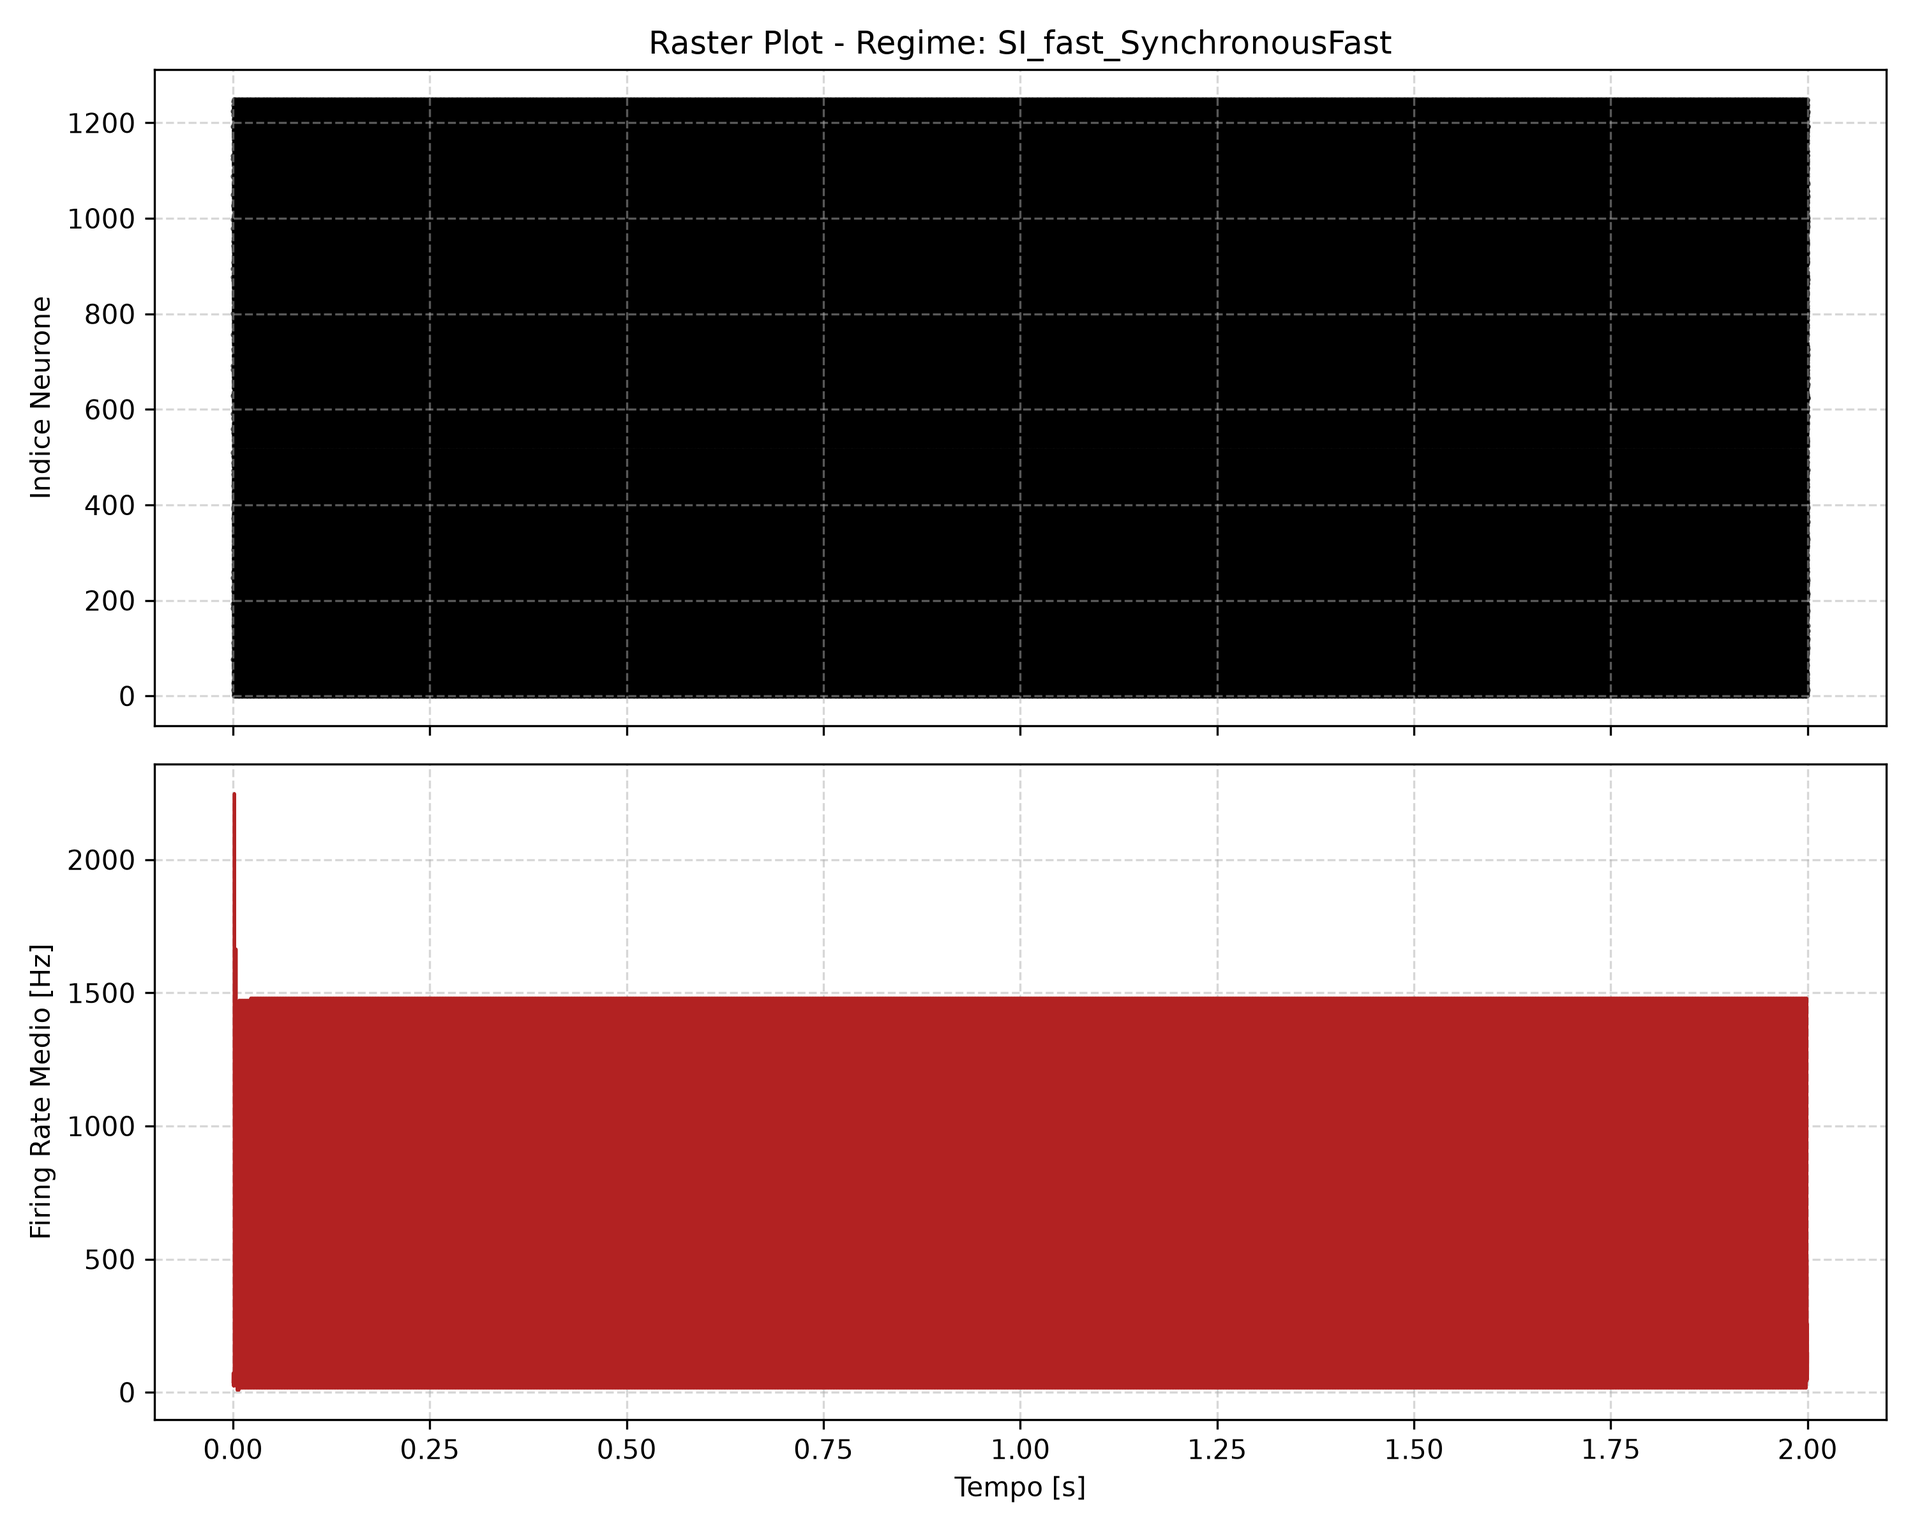
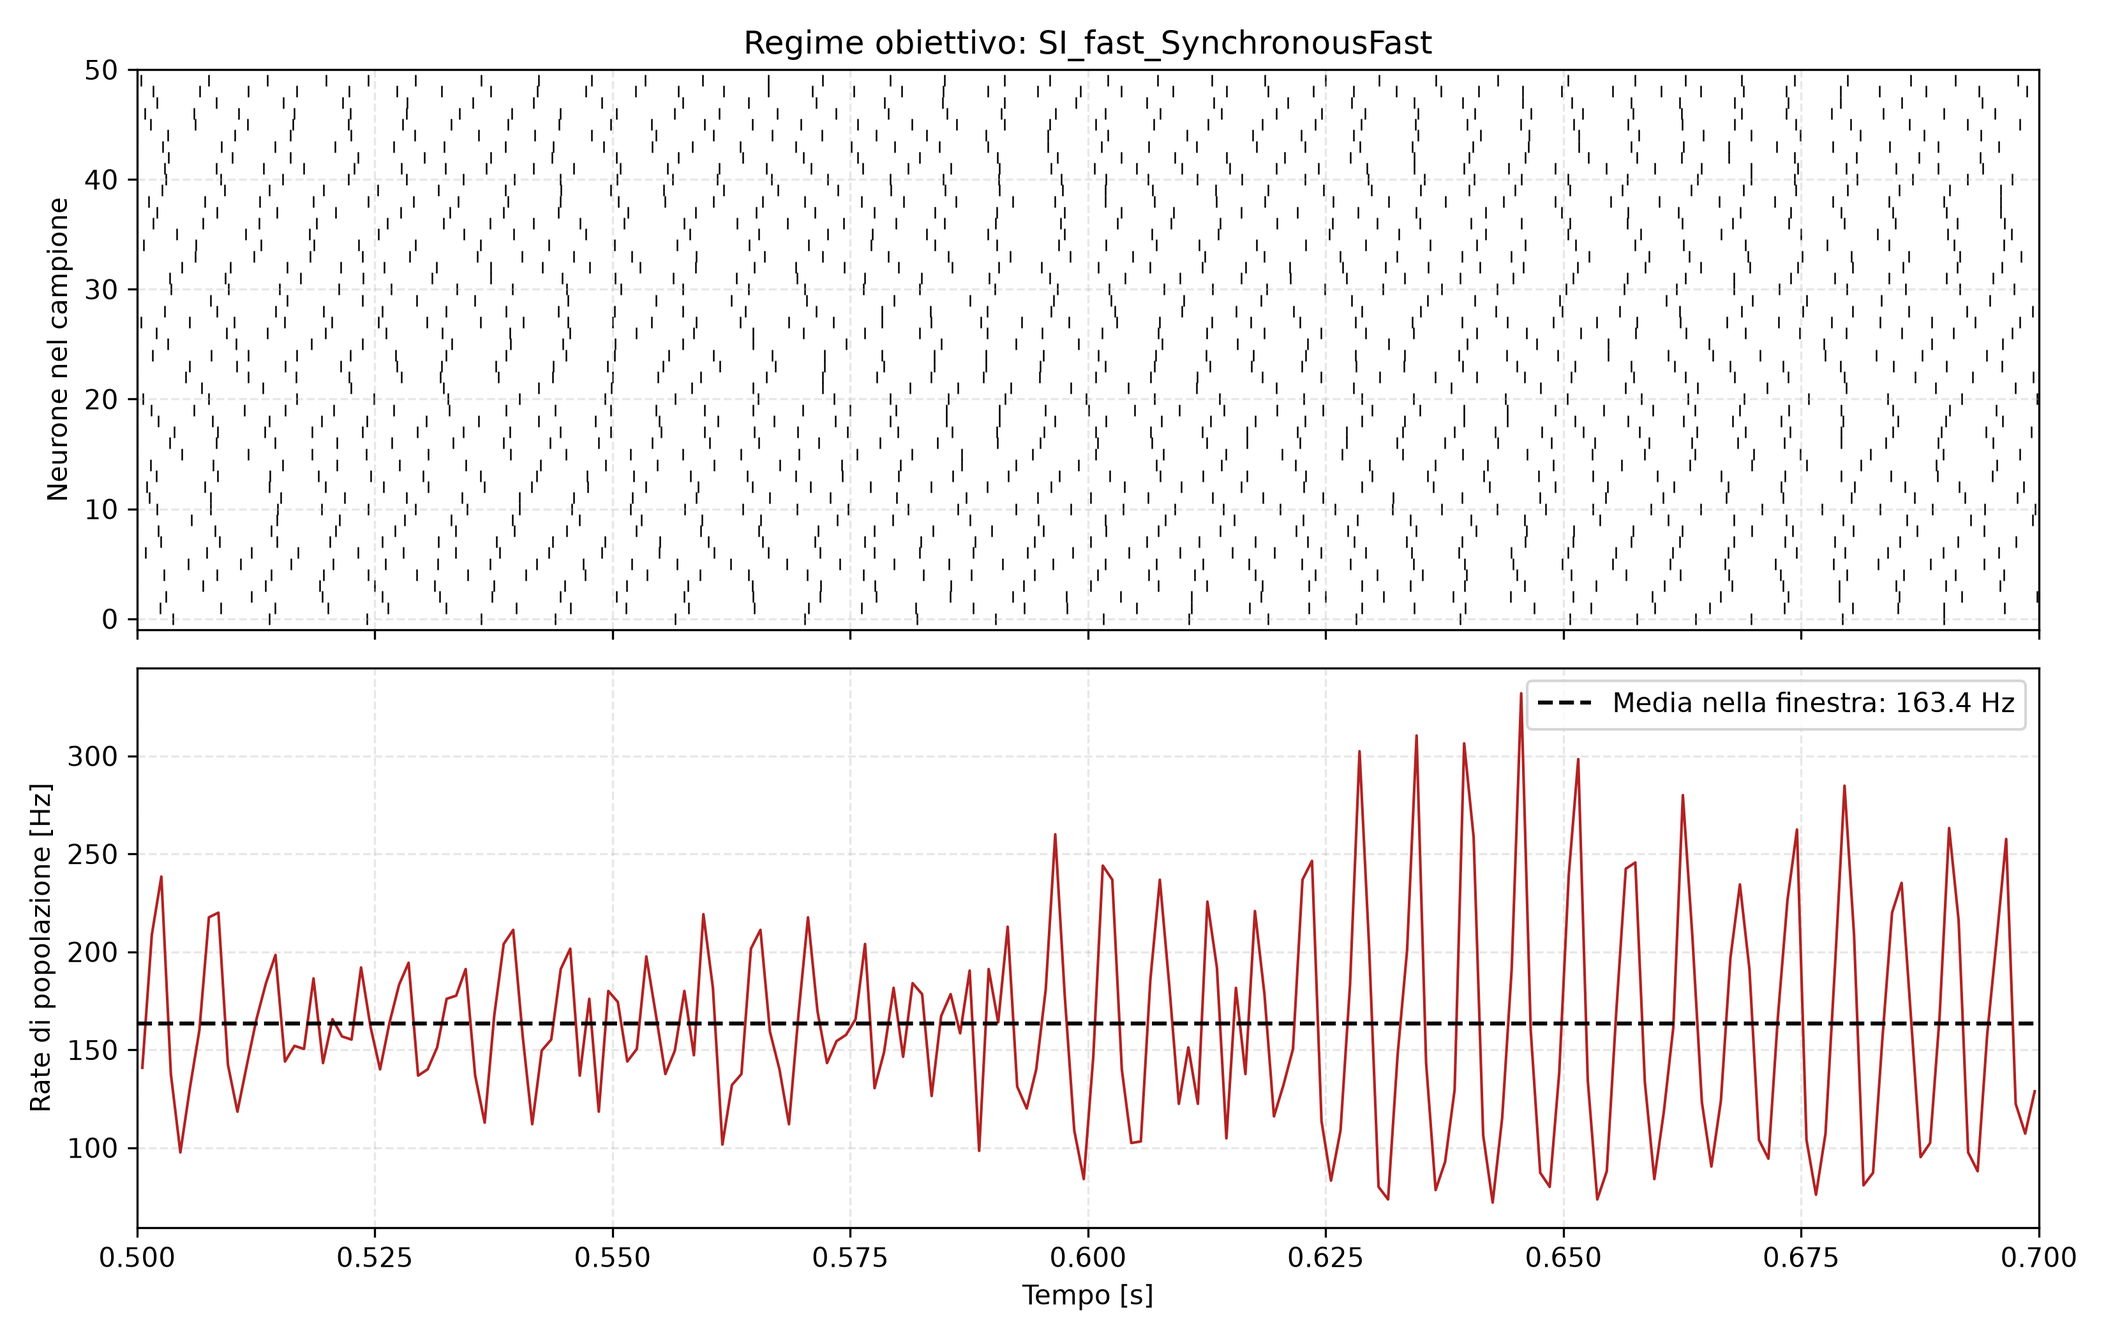
testBrunellSR

diff --git a/src/main.cpp b/src/main.cpp
@@ -986,99 +986,126 @@ void provaStimoloPoissoniano() {
 }
 
 // Funzione di supporto per lanciare una simulazione per un regime specifico di Brunel
-void eseguiSimulazioneBrunel(const std::string& nomeRegime, double g, double nu_ext_su_nu_thr, size_t numE,
-                             size_t numI) {
-    std::cout << "\n==================================================\n";
-    std::cout << " Avvio Simulazione Regime: " << nomeRegime << "\n";
-    std::cout << " Parametri: g = " << g << ", nu_ext/nu_thr = " << nu_ext_su_nu_thr << "\n";
-    std::cout << "==================================================\n";
+// Incollare queste funzioni nel main.cpp, sostituendo la vecchia funzione Brunel.
+// Dal proprio main chiamare eseguiQuattroRegimiBrunel(1000, 250).
+// Per la dimensione della figura 8: eseguiQuattroRegimiBrunel(10000, 2500).
+// I nomi identificano i regimi obiettivo, non una classificazione dell'output.
+#include "Rete.hpp"
+#include "Simulazione.hpp"
+#include "Stimoli.hpp"
+#include "UnitaSI.hpp"
+#include <cmath>
+#include <cstddef>
+#include <exception>
+#include <filesystem>
+#include <iostream>
+#include <random>
+#include <stdexcept>
+#include <string>
 
-    // 1. Parametri fisici fissi del modello di Brunel (2000)
-    double dt = 0.1 * ms;     // Passo temporale
-    double T = 2 * s;         // Durata della simulazione (2 secondi)
-    double J = 0.1 * mV;      // Ampiezza del salto sinaptico eccitatorio
-    double delayD = 1.5 * ms; // Ritardo fisso sinaptico
-    double p_conn = 0.1;      // Probabilità di connessione sparsa (10%)
-    double nu_thr = 10.0;     // Frequenza soglia di riferimento [Hz] (calcolata per C_ext=1000, J=0.1mV, tau=20ms)
-    double nu_ext = nu_ext_su_nu_thr * nu_thr; // Frequenza del treno di Poisson esterno
+void eseguiSimulazioneBrunel(const std::string& nomeRegime, double g, double eta, std::size_t numE, std::size_t numI) {
+    if (numE == 0 || numI == 0 || !(g > 0.0) || !(eta > 0.0))
+        throw std::invalid_argument("Popolazioni, g ed eta devono essere positivi");
+    const double dt = 0.1 * ms;
+    const double durata = 2.0 * s; // Analizzare dopo almeno 0.2 s di transitorio.
+    const double J = 0.1 * mV;
+    const double delay = 1.5 * ms;
+    const double probabilita = 0.1;
+    const double R = 1.0 * Mohm;
+    const double C = 20000.0 * p * F;
+    const double tauM = R * C; // 20 ms.
+    const double riposo = 0.0 * mV;
+    const double soglia = 20.0 * mV;
+    const double reset = 10.0 * mV;
 
-    // 2. Creazione della Rete e blocco seed
+    // Scelta per la rete ridotta: Cext = numero MEDIO di afferenze E.
+    // Con 1250 neuroni la connettivita' ricorrente NON equivale al caso originale.
+    const double Cext = probabilita * static_cast<double>(numE);
+    const double nuThr = (soglia - riposo) / (J * Cext * tauM);
+    const double nuExt = eta * nuThr; // Frequenza per afferenza.
+    const double frequenzaAggregata = Cext * nuExt;
+
+    // Corrente costante per uno step: contributo al potenziale pari a J
+    // con l'integrazione analitica LIF. Non assegnare J direttamente a Ipeak!
+    const double correnteEvento = J / (R * (-std::expm1(-dt / tauM)));
+
+    std::cout << "\n=== Obiettivo: " << nomeRegime << " ===\n"
+              << "N = " << numE + numI << ", g = " << g << ", eta = " << eta << '\n'
+              << "tau_m [ms] = " << tauM / ms << ", corrente/evento [nA] = " << correnteEvento / (n * A) << '\n'
+              << "Cext = " << Cext << ", nu_thr [Hz] = " << nuThr << ", nu_ext aggregata [Hz] = " << frequenzaAggregata
+              << '\n';
+
     Rete rete;
-    // rete.setSeed(42);
+    const auto popE = rete.addPopulation(numE, NeuronModel::LIF, 'A');
+    const auto popI = rete.addPopulation(numI, NeuronModel::LIF, 'A');
 
-    // 3. Creazione Popolazioni (80% Eccitatori, 20% Inibitori)
-    // Usiamo neuroni LIF con integratore analitico ('A')
-    size_t popE = rete.addPopulation(numE, NeuronModel::LIF, 'A');
-    size_t popI = rete.addPopulation(numI, NeuronModel::LIF, 'A');
+    patchLIF parametri;
+    parametri.V = reset;
+    parametri.Vrest = riposo;
+    parametri.Vreset = reset;
+    parametri.Vth = soglia;
+    parametri.VthMin = soglia;
+    parametri.VthMax = soglia; // Soglia fissa: niente adattamento.
+    parametri.R = R;
+    parametri.C = C;
+    parametri.timeAbsolute = 2.0 * ms;
+    parametri.timeRelative = 20.0 * ms; // Finito; irrilevante con soglia fissa.
+    rete.modificaParametriPopolazione(popE, parametri);
+    rete.modificaParametriPopolazione(popI, parametri);
 
-    // Impostiamo esplicitamente i parametri standard di Brunel sui neuroni creati
-    // (Vrest = 0mV, Vth = 20mV, Vreset = 10mV, tau = 20ms)
-    patchLIF patchBrunel;
-    patchBrunel.Vrest = 0.0 * mV;
-    patchBrunel.Vth = 20.0 * mV;
-    patchBrunel.Vreset = 10.0 * mV;
-    patchBrunel.timeAbsolute = 2.0 * ms; // Refrattarietà tau_rp = 2ms
-
-    // Assegnamo tau = 20ms tramite R * C (es. R=1Mohm, C=2000pF -> tau=20ms)
-    patchBrunel.R = 1.0 * Mohm;
-    patchBrunel.C = 20000.0 * p * F; // 20ms / 1Mohm = 20000pF
-
-    rete.modificaParametriPopolazione(popE, patchBrunel);
-    rete.modificaParametriPopolazione(popI, patchBrunel);
-
-    // 4. Connessioni interne (E->E, E->I, I->E, I->I) con sinapsi Current impulsive (isImpulsive_ = true)
-    patchCurrent patchSynE = {};
-    patchSynE.peso = -1.0;
-    patchSynE.Ipeak = J;
-    patchSynE.delay = delayD;
-    patchSynE.isDelta = true;
-
-    patchCurrent patchSynI = {};
-    patchSynI.peso = 1.0;
-    patchSynI.Ipeak = g * J; // Inibizione scalata per il fattore g
-    patchSynI.delay = delayD;
-    patchSynI.isDelta = true;
-
-    // Creiamo le 4 matrici di connessione sparsa
-    auto sinE_E = rete.connettiPopolazioni(popE, popE, p_conn, SynapseModel::Current, patchSynE);
-    auto sinE_I = rete.connettiPopolazioni(popE, popI, p_conn, SynapseModel::Current, patchSynE);
-    auto sinI_E = rete.connettiPopolazioni(popI, popE, p_conn, SynapseModel::Current, patchSynI);
-    auto sinI_I = rete.connettiPopolazioni(popI, popI, p_conn, SynapseModel::Current, patchSynI);
-
-    // Attiviamo il flag impulsivo su tutte le sinapsi create
-    // (Supponendo di avere il metodo per impostare l'integratore/flag impulsivo sulle sinapsi)
-    // Nota: nel codice puoi iterare e impostare syn.isImpulsive_ = true;
-
-    // 5. Iniezione dell'input esterno di Poisson su TUTTI i neuroni della rete
-
-    rete.bloccaRete();
-
-    Simulazione sim(rete, dt, T);
-    // sim.setSeed(1337);
-
-    for (size_t i = 0; i < (numE + numI); ++i) {
-        configPoissonStimulus pois;
-        pois.timeStart = 0.0;
-        pois.timeEnd = T;
-        pois.frequenza = nu_ext;
-        pois.ampiezza = J;
-
-        sim.iniettaStimoli({{i, pois}});
+    // Solo condizioni iniziali eterogenee; parametri fisici identici.
+    std::mt19937 rngIniziale(42);
+    std::uniform_real_distribution<double> iniziale(reset, soglia);
+    for (std::size_t id = 0; id < numE + numI; ++id) {
+        patchLIF condizione;
+        condizione.V = iniziale(rngIniziale);
+        rete.modificaParametriNeurone(id, condizione);
     }
 
-    // 6. Blocco della rete (Attivazione pre-calcolo analitico) e avvio simulazione
-    std::string fileV = "V_" + nomeRegime + ".bin";
-    std::string fileF = "F_" + nomeRegime + ".bin";
-    std::string fileS = "S_" + nomeRegime + ".bin";
+    patchCurrent eccitatoria;
+    eccitatoria.Isyn = 0.0;
+    eccitatoria.peso = -1.0; // Engine sottrae getCurrent().
+    eccitatoria.Ipeak = correnteEvento;
+    eccitatoria.delay = delay;
+    eccitatoria.tau = 5.0 * ms; // Ignorato per le delta.
+    eccitatoria.isDelta = true;
 
-    std::cout << "[Main] Preparazione e blocco della rete in corso...\n";
-    // (La simulazione o la rete chiamano il prepare/blocco)
+    patchCurrent inibitoria = eccitatoria;
+    inibitoria.peso = 1.0;
+    inibitoria.Ipeak = g * correnteEvento;
 
-    std::cout << "[Main] Avvio simulazione per " << T << " secondi...\n";
-    sim.avviaSimulazione(fileV, fileF, fileS);
-    std::cout << "[Main] Simulazione completata! File salvati nella cartella output/.\n";
+    rete.connettiPopolazioni(popE, popE, probabilita, SynapseModel::Current, 'A', eccitatoria);
+    rete.connettiPopolazioni(popE, popI, probabilita, SynapseModel::Current, 'A', eccitatoria);
+    rete.connettiPopolazioni(popI, popE, probabilita, SynapseModel::Current, 'A', inibitoria);
+    rete.connettiPopolazioni(popI, popI, probabilita, SynapseModel::Current, 'A', inibitoria);
+    rete.bloccaRete();
+
+    Simulazione sim(rete, dt, durata);
+    for (std::size_t id = 0; id < numE + numI; ++id) {
+        configPoissonStimulus pois;
+        pois.timeStart = 0.0;
+        pois.timeEnd = durata;
+        pois.frequenza = frequenzaAggregata;
+        pois.ampiezza = correnteEvento;
+        stimolo esterno;
+        esterno.indexNeurone = id;
+        esterno.parametri = pois;
+        sim.iniettaStimoli(esterno);
+    }
+
+    std::filesystem::create_directories("output");
+    const std::string nome = nomeRegime;
+    sim.avviaSimulazione("V_" + nome + ".bin", "F_" + nome + ".bin", "S_" + nome + ".bin");
 }
 
+// Le etichette identificano i regimi obiettivo. La rete ridotta non e'
+// dinamicamente equivalente alla rete originale: controllare raster, CV e rate.
+void eseguiQuattroRegimiBrunel(std::size_t numE = 1000, std::size_t numI = 250) {
+    eseguiSimulazioneBrunel("SR_SynchronousRegular", 3.0, 2.0, numE, numI);
+    // eseguiSimulazioneBrunel("AI_AsynchronousIrregular", 5.0, 2.0, numE, numI);
+    // eseguiSimulazioneBrunel("SI_fast_SynchronousFast", 6.0, 4.0, numE, numI);
+    // eseguiSimulazioneBrunel("SI_slow_SynchronousSlow", 4.5, 0.9, numE, numI);
+}
 // ---------------------------------------------------------------------------------------
 // MAIN: Esecuzione di tutti gli esempi didattici e benchmark
 // ---------------------------------------------------------------------------------------
@@ -1093,8 +1120,8 @@ int main(int argc, char* argv[]) {
     std::cout << "║                 SpikeNNsim - GUIDA ED ESEMPI PRATICI                 ║\n";
     std::cout << "╚══════════════════════════════════════════════════════════════════════╝\n";
 
-    size_t numE = 1000;
-    size_t numI = 250;
+    size_t numE = 10000;
+    size_t numI = 2500;
 
     try {
         // esempio1_neuroni_singoli();
@@ -1113,10 +1140,7 @@ int main(int argc, char* argv[]) {
         // verificaRingNetwork();
 
         // Lanciamo i 4 regimi classici di Brunel (2000)
-        eseguiSimulazioneBrunel("SR_SynchronousRegular", 3.0, 2.0, numE, numI);
-        eseguiSimulazioneBrunel("AI_AsynchronousIrregular", 5.0, 2.0, numE, numI);
-        eseguiSimulazioneBrunel("SI_fast_SynchronousFast", 6.0, 4.0, numE, numI);
-        eseguiSimulazioneBrunel("SI_slow_SynchronousSlow", 4.5, 0.9, numE, numI);
+        eseguiQuattroRegimiBrunel(numE, numI);
 
         std::cout << "\n======================================================================\n";
         std::cout << "  TUTTI GLI ESEMPI E I BENCHMARK SONO STATI ESEGUITI CON SUCCESSO!\n";

diff --git a/script/analizza_brunel.py b/script/analizza_brunel.py
@@ -29,53 +29,119 @@ def leggi_file_binario(filepath):
 def analizza_e_plasma(nome_regime):
     file_f = f"output/F_{nome_regime}.bin"
     times, firing_matrix = leggi_file_binario(file_f)
-    
-    if times is None:
+
+    # Escludiamo i primi 0.2 secondi di transitorio.
+    maschera = times >= 0.2
+    tempi = times[maschera]
+
+    cv_neuroni = np.full(firing_matrix.shape[1], np.nan)
+
+    for indice in range(firing_matrix.shape[1]):
+        spike_times = tempi[firing_matrix[maschera, indice] > 0.5]
+        isi = np.diff(spike_times)
+
+        # Soglia pratica: con pochi intervalli il CV è poco affidabile.
+        if isi.size >= 10:
+            cv_neuroni[indice] = np.std(isi, ddof=1) / np.mean(isi)
+
+    validi = cv_neuroni[np.isfinite(cv_neuroni)]
+
+    if validi.size:
+        print(f"Neuroni con almeno 10 ISI: {validi.size}/{cv_neuroni.size}")
+        print(f"CV medio:   {validi.mean():.3f}")
+        print(f"CV mediano: {np.median(validi):.3f}")
+
+        plt.figure(figsize=(7, 4))
+        plt.hist(validi, bins=40, color="steelblue", edgecolor="white")
+        plt.xlabel("CV degli intervalli tra spike")
+        plt.ylabel("Numero di neuroni")
+        plt.tight_layout()
+        plt.show()
+    else:
+        print("Spike insufficienti per stimare il CV.")
+
+    if times is None or len(times) < 2:
         return
 
-    print(f"Analisi per il regime: {nome_regime} (Step temporali: {len(times)})")
-
-    # Estraiamo gli spike (dove firing_matrix == 1.0)
-    # firing_matrix contiene 1.0 se il neurone ha sparato in quel dt, 0.0 altrimenti
-    neuroni_idx, spike_times = [], []
-    
-    # Campioniamo un sottoinsieme di neuroni se sono troppi (es. max 1000 per il plot)
     num_neuroni = firing_matrix.shape[1]
-    step_campione = max(1, num_neuroni // 1000)
-    
-    for n_idx in range(0, num_neuroni, step_campione):
-        spikes = np.where(firing_matrix[:, n_idx] > 0.5)[0]
-        if len(spikes) > 0:
-            for s in spikes:
-                neuroni_idx.append(n_idx)
-                spike_times.append(times[s])
+    dt = times[1] - times[0]
 
-    # Calcoliamo il Firing Rate Globale della popolazione (Hz)
-    dt = times[1] - times[0] if len(times) > 1 else 0.0001
-    spike_counts = np.sum(firing_matrix, axis=1) # totale spike in ogni dt
-    # Firing rate medio normalizzato in Hz (spike al secondo per neurone)
-    firing_rate_global = (spike_counts / num_neuroni) / dt
+    # Finestra dopo il transitorio, in secondi.
+    t_start, t_end = 0.5, 0.7
+    finestra = (times >= t_start) & (times < t_end)
 
-    # --- PLOT ---
-    fig, (ax1, ax2) = plt.subplots(2, 1, figsize=(10, 8), sharex=True)
+    if not np.any(finestra):
+        print(f"{nome_regime}: nessun dato nella finestra scelta.")
+        return
 
-    # 1. Raster Plot
-    ax1.scatter(spike_times, neuroni_idx, s=1, color='black', alpha=0.6)
-    ax1.set_ylabel("Indice Neurone")
-    ax1.set_title(f"Raster Plot - Regime: {nome_regime}")
-    ax1.grid(True, linestyle='--', alpha=0.5)
+    tempi = times[finestra]
+    firing = firing_matrix[finestra] > 0.5
 
-    # 2. Firing Rate Istantaneo Globale
-    ax2.plot(times, firing_rate_global, color='firebrick', linewidth=1.2)
+    # Stesso campione riproducibile nei diversi regimi.
+    rng = np.random.default_rng(42)
+    selezionati = np.sort(
+        rng.choice(num_neuroni, size=min(50, num_neuroni), replace=False)
+    )
+
+    fig, (ax1, ax2) = plt.subplots(
+        2, 1, figsize=(11, 7), sharex=True
+    )
+
+    # Posizioni ordinate nel campione; ogni riga è un neurone.
+    for posizione, indice in enumerate(selezionati):
+        spike_times = tempi[firing[:, indice]]
+        ax1.scatter(
+            spike_times,
+            np.full(spike_times.size, posizione),
+            marker="|", s=18, linewidths=0.6, color="black"
+        )
+
+    ax1.set_ylabel("Neurone nel campione")
+    ax1.set_title(f"Regime obiettivo: {nome_regime}")
+    ax1.set_ylim(-1, len(selezionati))
+
+    # Rate su TUTTI i neuroni, raggruppando timestep completi.
+    passi_bin = max(1, int(round(1e-3 / dt)))
+    n_bin = len(tempi) // passi_bin
+
+    if n_bin == 0:
+        plt.close(fig)
+        print(f"{nome_regime}: finestra troppo breve per il bin scelto.")
+        return
+
+    n_utili = n_bin * passi_bin
+    durata_bin = passi_bin * dt
+
+    conteggi = firing[:n_utili].sum(axis=1)
+    conteggi_bin = conteggi.reshape(n_bin, passi_bin).sum(axis=1)
+    tempi_bin = tempi[:n_utili].reshape(n_bin, passi_bin).mean(axis=1)
+
+    rate = conteggi_bin / (num_neuroni * durata_bin)
+    rate_medio = conteggi.sum() / (num_neuroni * n_utili * dt)
+
+    ax2.plot(tempi_bin, rate, color="firebrick", linewidth=1)
+    ax2.axhline(
+        rate_medio, color="black", linestyle="--",
+        label=f"Media nella finestra: {rate_medio:.1f} Hz"
+    )
     ax2.set_xlabel("Tempo [s]")
-    ax2.set_ylabel("Firing Rate Medio [Hz]")
-    ax2.grid(True, linestyle='--', alpha=0.5)
+    ax2.set_ylabel("Rate di popolazione [Hz]")
+    ax2.legend()
 
-    plt.tight_layout()
+    for ax in (ax1, ax2):
+        ax.set_xlim(t_start, t_end)
+        ax.grid(True, linestyle="--", alpha=0.3)
+
+    fig.tight_layout()
     output_img = f"Brunel_{nome_regime}.png"
-    plt.savefig(output_img, dpi=300)
-    print(f"Grafico salvato con successo come: {output_img}\n")
-    plt.close()
+    fig.savefig(output_img, dpi=300)
+    plt.close(fig)
+
+    print(
+        f"{nome_regime}: rate medio = {rate_medio:.2f} Hz, "
+        f"bin = {durata_bin * 1000:.2f} ms. "
+        f"Salvato: {output_img}"
+    )
 
 if __name__ == "__main__":
     regimi = [

diff --git a/include/Utility.hpp b/include/Utility.hpp
@@ -8,6 +8,7 @@
 
 #include <cstddef>
 #include <random>
+#include <stdexcept>
 
 /**
  * @ingroup internals
